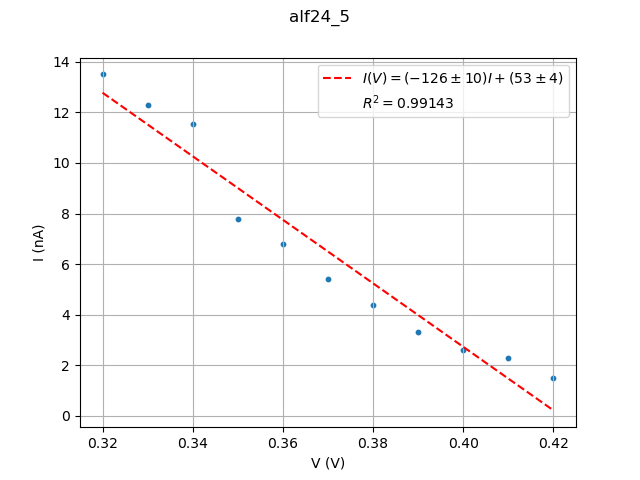
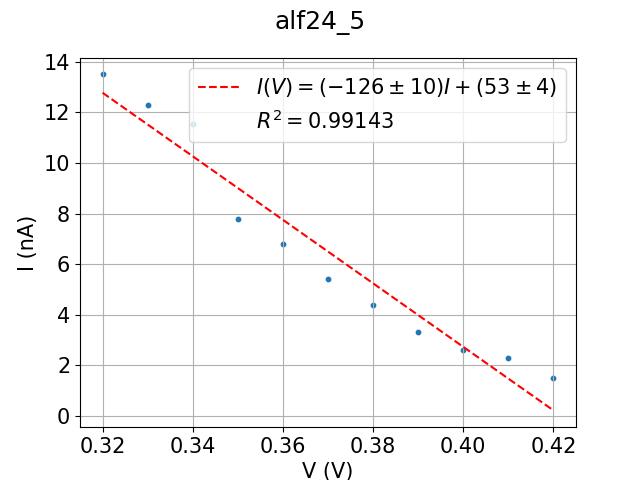
Mejorando graficas efecto fotoelectrico

diff --git a/Bloque Cuantica-Estadistica/P1B Fotoelectrico/P1.py b/Bloque Cuantica-Estadistica/P1B Fotoelectrico/P1.py
@@ -27,6 +27,7 @@ chi = scis.chisquare(np.polyval(p,nu), V) [1] # Esto es chi cuadrado
 
 
 #%% Graficas
+plt.rcParams.update({'font.size': 22})
 fig,ax = herr.BasicCanvas("Potecial de frenado para distintas frecuencias", r"$\nu \ (Hz)$", "V (Volts)")
 ax.scatter(nu,V,s = 8)
 ajusteLabel = r"$V(\nu) =({} \pm {} ) \nu + ({} \pm {}) $".format(round(p[0],17), round(errs[0],17),round(p[1],2), round(errs[1],2))

diff --git a/Bloque Cuantica-Estadistica/P1B Fotoelectrico/P3.py b/Bloque Cuantica-Estadistica/P1B Fotoelectrico/P3.py
@@ -17,6 +17,7 @@ for i in range(3):
     dataList.append(np.array(herr.TTD(pth + dataNames[i]),dtype = float)) # Se han conseguido en orden de alfa creciente
 
 #%% Graficas
+plt.rcParams.update({'font.size': 15})
 for i in range(6):
     V = dataList[i][0]
     I = dataList[i][1]

diff --git a/Bloque Cuantica-Estadistica/P1B Fotoelectrico/P2.py b/Bloque Cuantica-Estadistica/P1B Fotoelectrico/P2.py
@@ -23,6 +23,7 @@ for i in range(6):
 
 # Hay que obtener los errores
 #%% Graficas
+plt.rcParams.update({'font.size': 15})
 for i in range(6):
     V = dataList[i][0]
     I = dataList[i][1]  # * 10E-9 # Revertimos amplificacion y dividimos por R. Al estar en nanos esta listo
